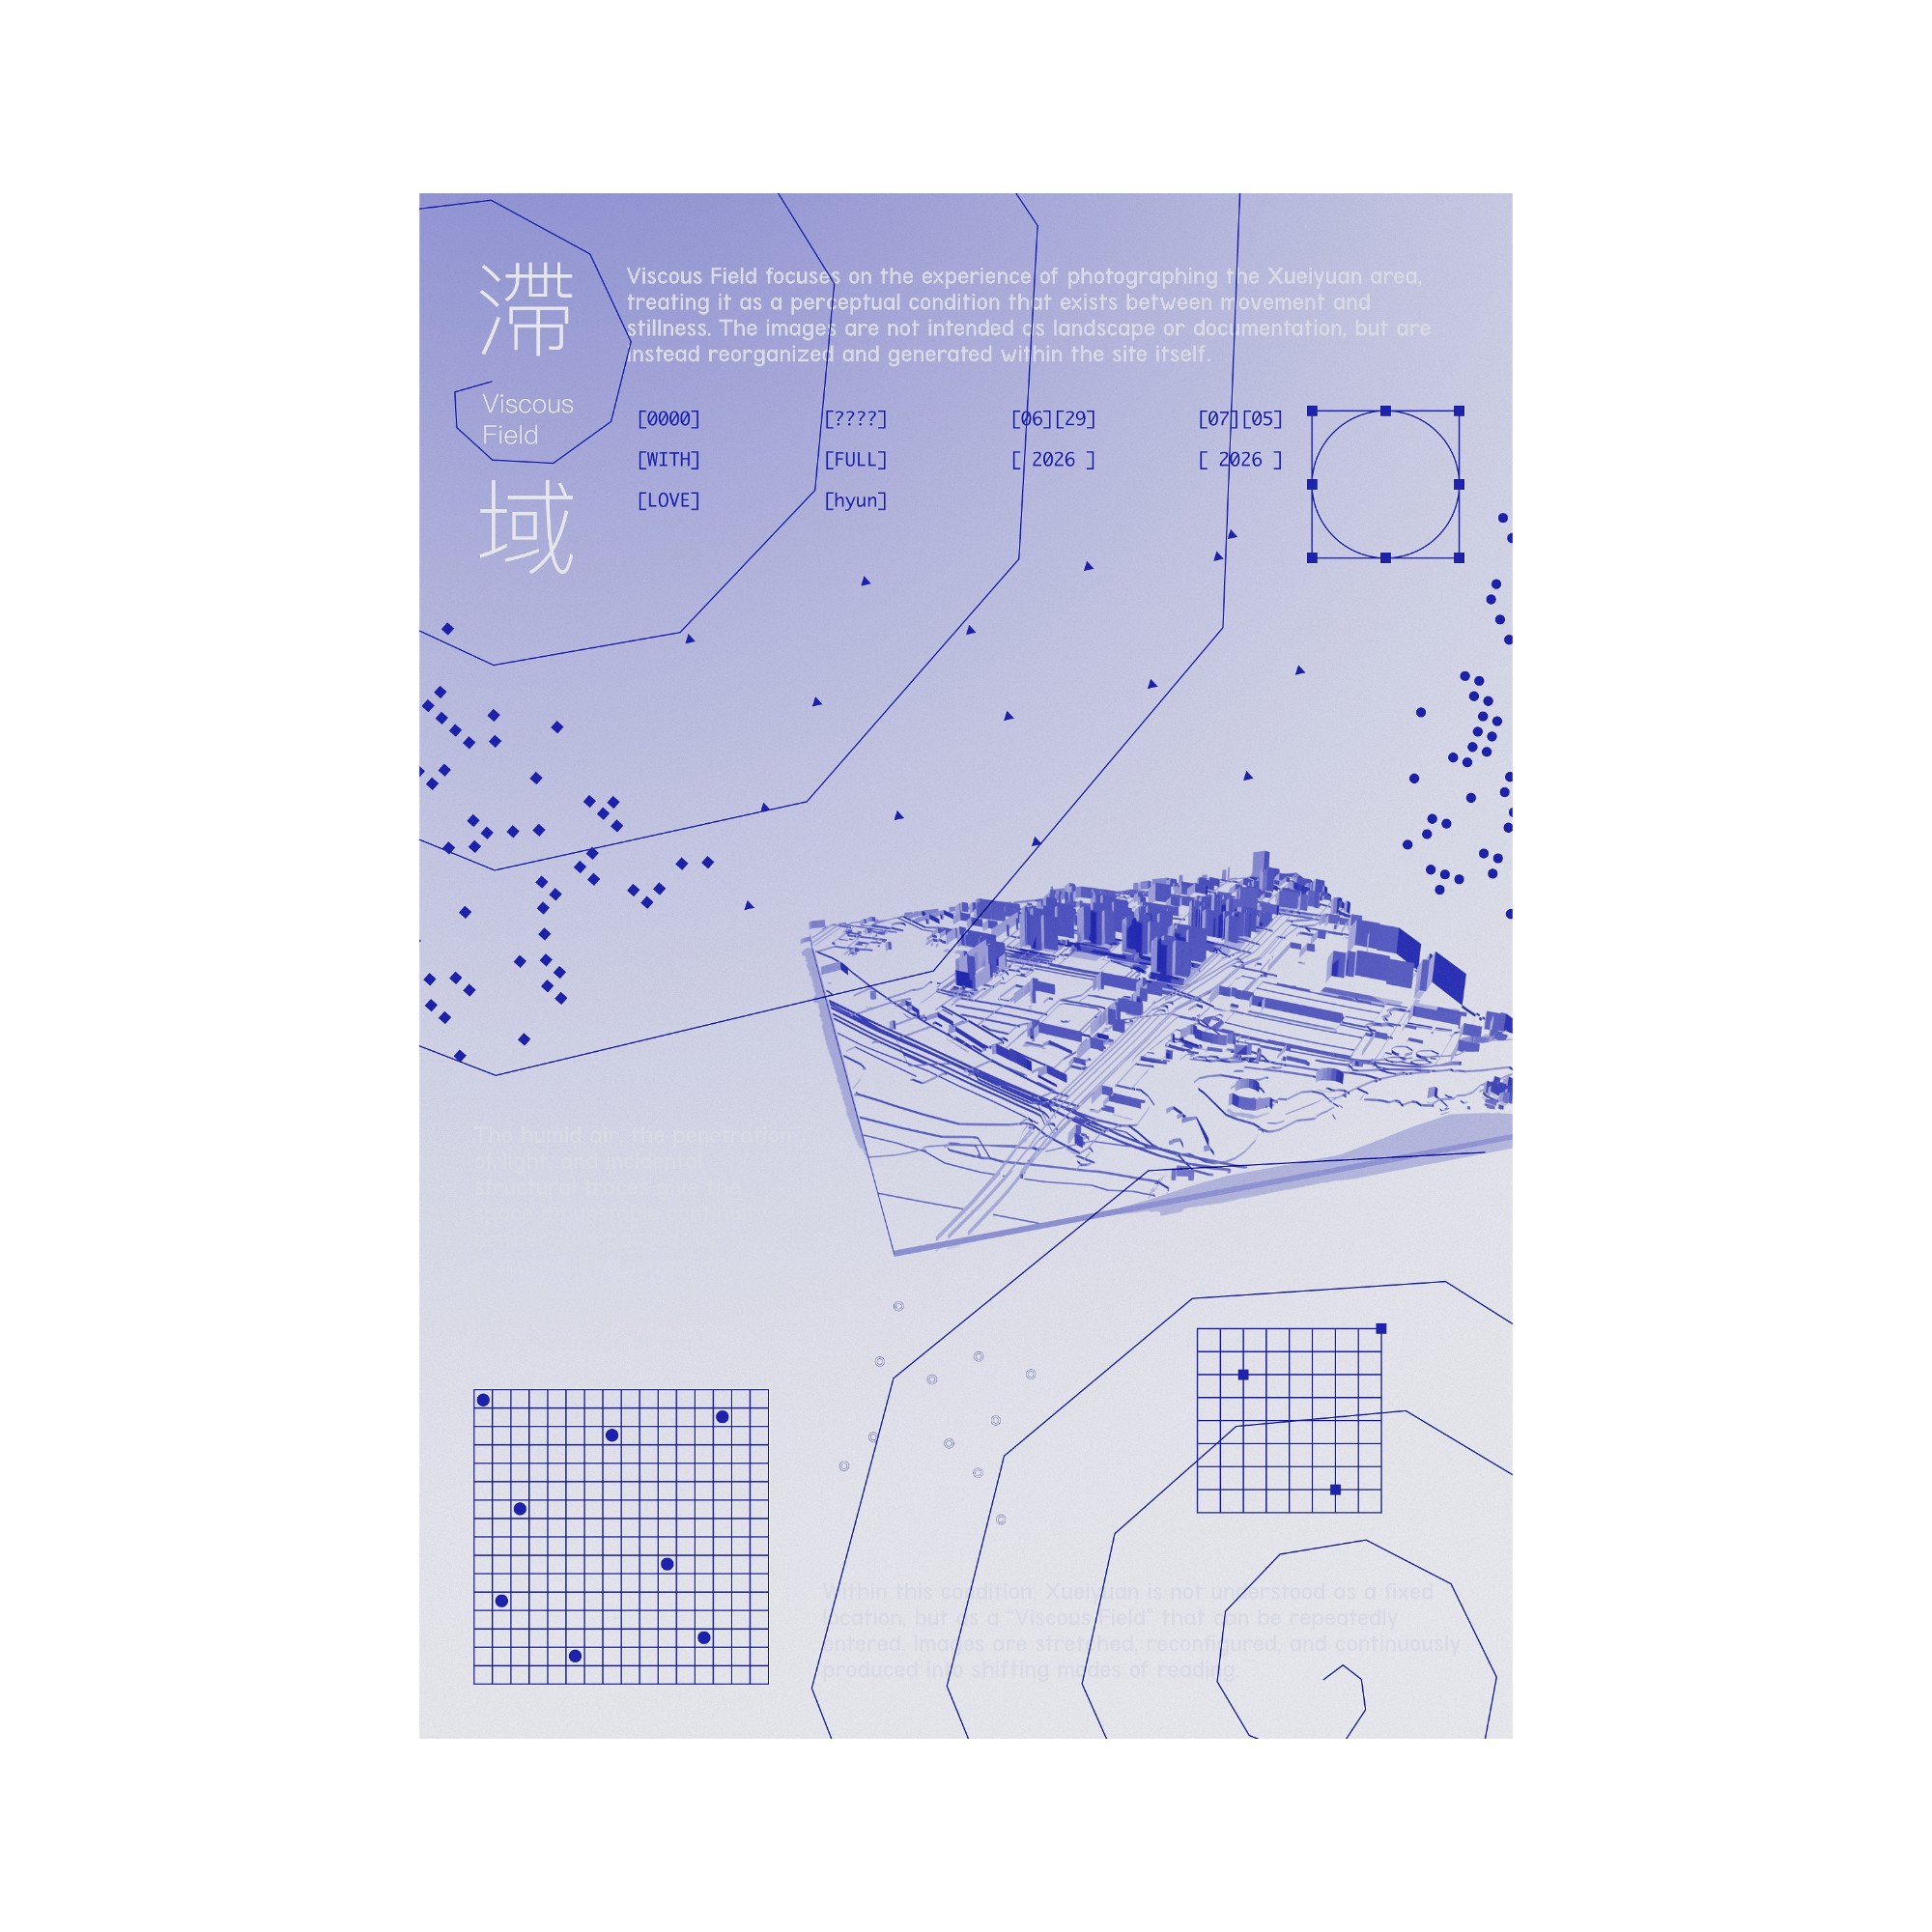
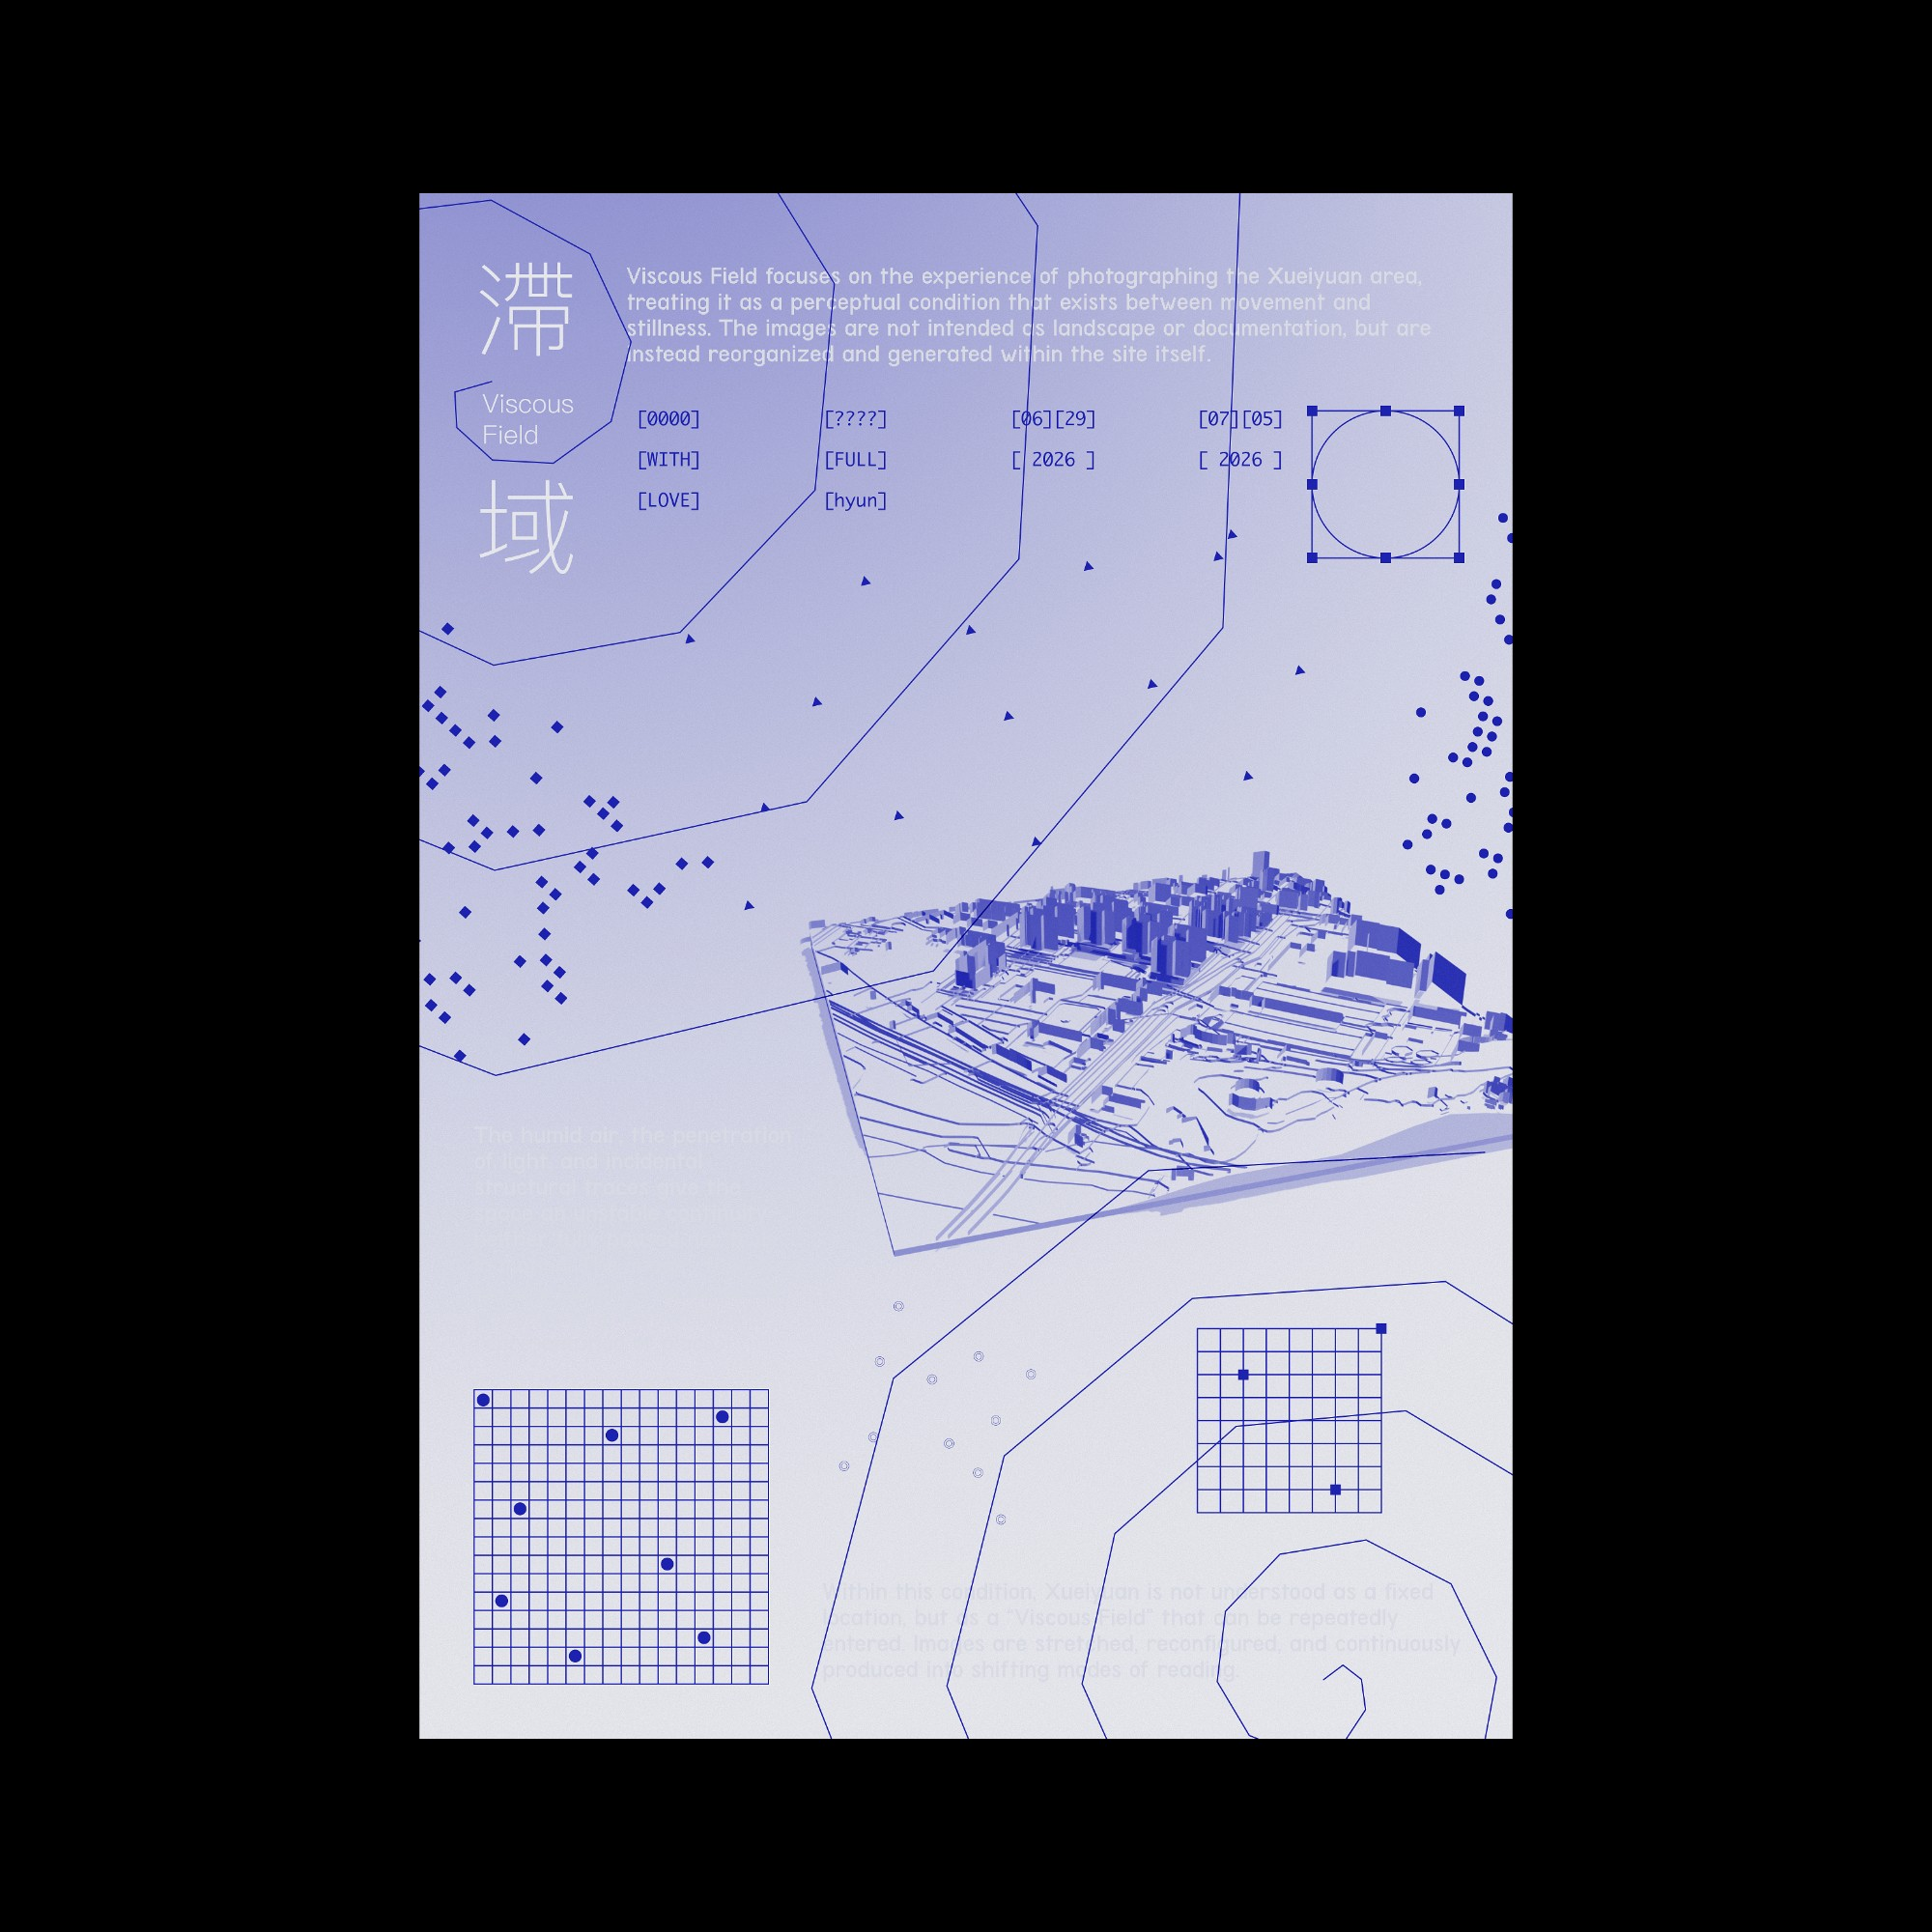
update viscous field

diff --git a/src/content/work/en/viscous-field.md b/src/content/work/en/viscous-field.md
@@ -7,6 +7,8 @@ location: Daan．Taipei
 settings: ""
 cover: a
 coverImage: /images/uploads/website.jpg
+featured: true
+showOnHome: true
 blocks:
   - type: text
     body: >-

diff --git a/src/content/work/zh/viscous-field.md b/src/content/work/zh/viscous-field.md
@@ -7,6 +7,8 @@ location: 大安．台北
 settings: ""
 cover: a
 coverImage: /images/uploads/website.jpg
+featured: true
+showOnHome: true
 blocks:
   - type: text
     body: >